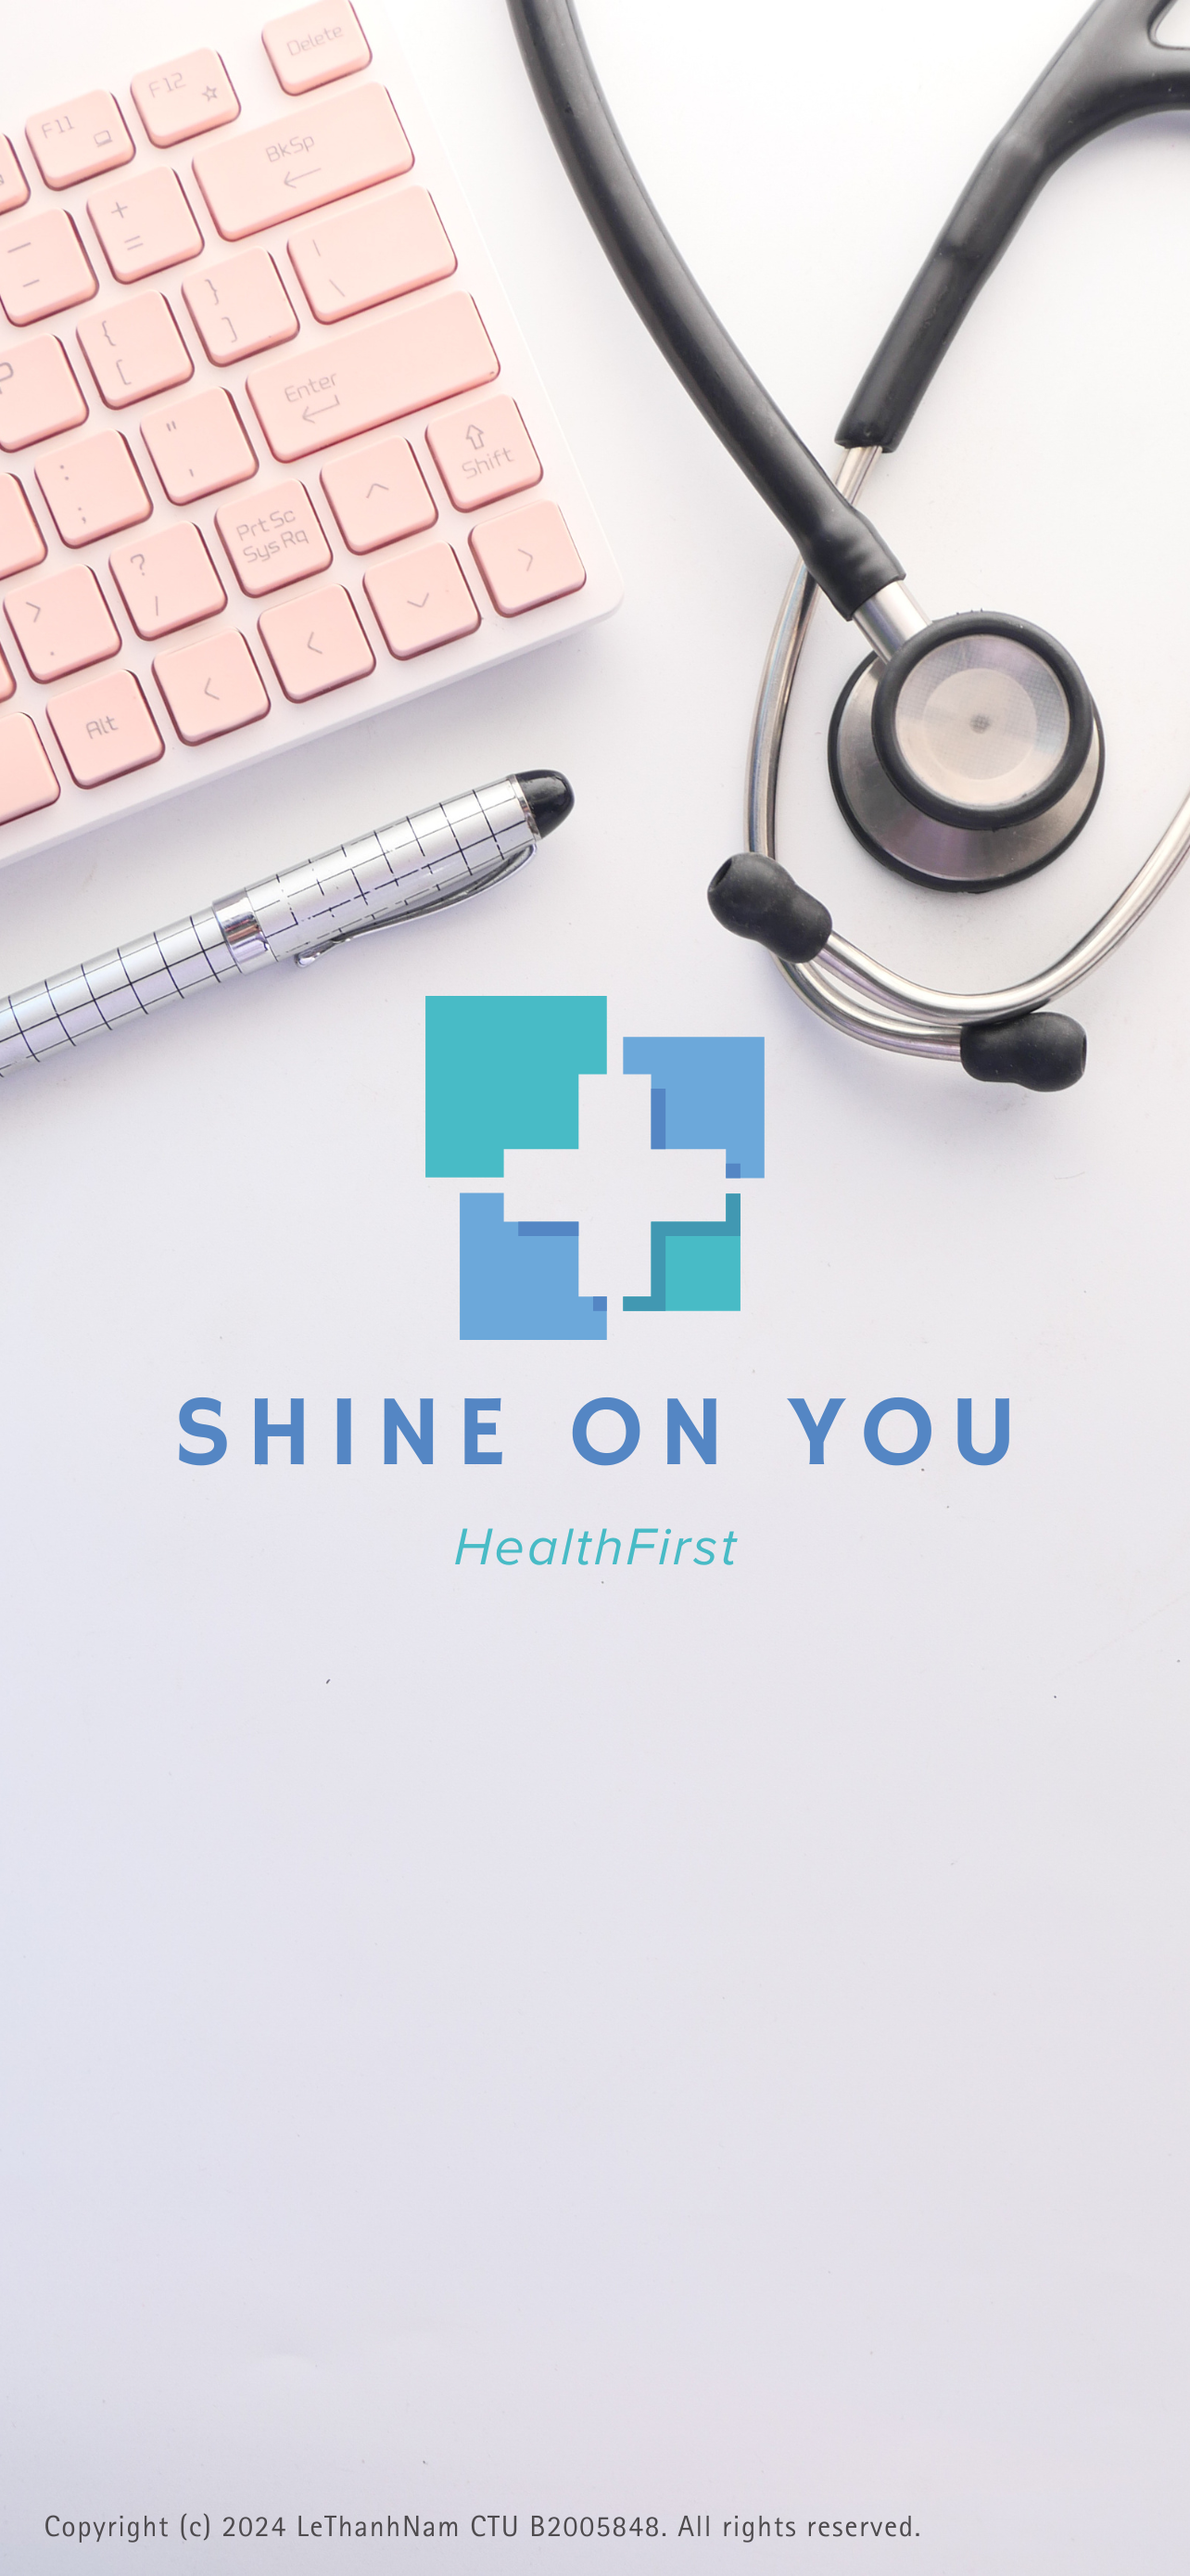
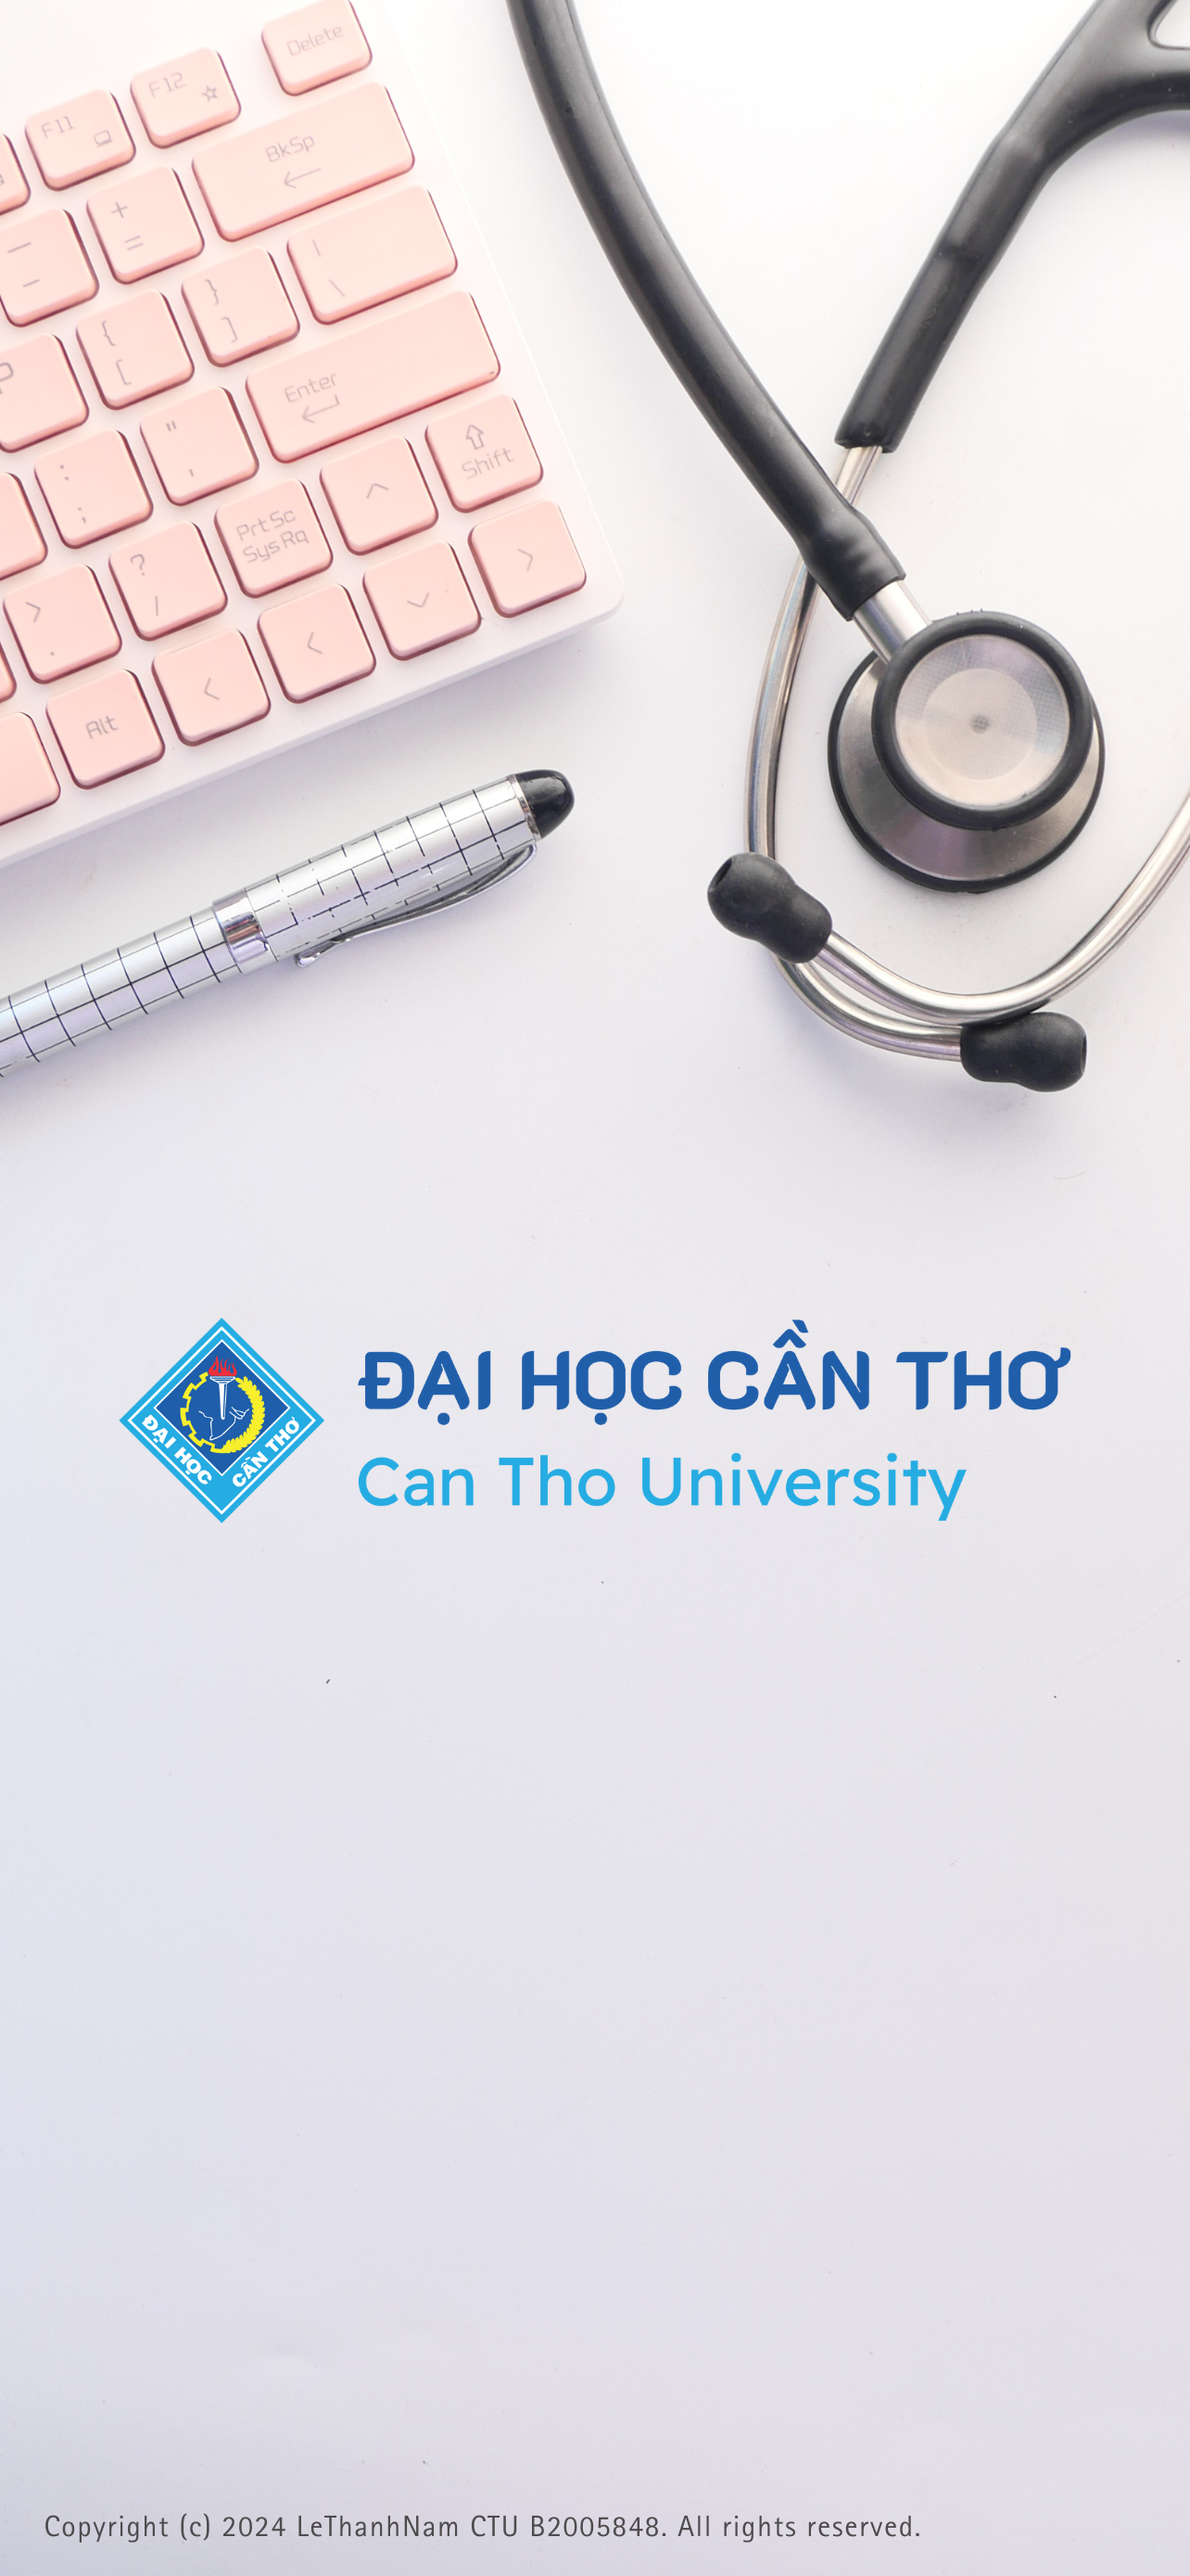
update

Changed region(s): [[0.0935, 0.3715, 0.9034, 0.6192]]

diff --git a/App.js b/App.js
@@ -64,7 +64,8 @@ export default function App() {
           name="LoginScreen"
           component={LoginScreen}
           options={{
-            title: "SHINE ON YOU",
+            headerShown: true,
+            title: "CTU",
             headerStyle: {
               backgroundColor: "#5486c4",
               fontFamily: "Open Sans-Bold",
@@ -82,7 +83,22 @@ export default function App() {
         <Stack.Screen
           name="SignUpScreen"
           component={SignUpScreen}
-          options={{ headerShown: true, title: "Đăng Ký" }}
+          options={{
+            headerShown: true,
+            title: "Đăng Ký",
+            headerStyle: {
+              backgroundColor: "#5486c4",
+              fontFamily: "Open Sans-Bold",
+            },
+            headerTintColor: "#fff",
+            headerRight: () => (
+              <FontAwesomeIcon
+                icon="fas fa-house-user"
+                size={32}
+                color="#fff"
+              />
+            ),
+          }}
         />
         <Stack.Screen
           name="CustomerScreen"

diff --git a/src/screens/LoginScreen/index.js b/src/screens/LoginScreen/index.js
@@ -13,7 +13,7 @@ import {
 import AsyncStorage from "@react-native-async-storage/async-storage";
 import { useNavigation } from "@react-navigation/native";
 import { isTokenValid } from "../../stores/auth-token";
-import API_URL from "../../apiConfig";
+import API_URL from "../../../apiConfig";
 
 import styles from "./style";
 
@@ -105,8 +105,8 @@ export default function LoginScreen() {
     >
       <View>
         <Image
-          source={require("../../assets/HealthFirst.png")}
-          style={{ width: 300, height: 300 }}
+          source={require("../../assets/CTU_logo.png")}
+          style={{ width: 250, height: 250 }}
         />
       </View>
       <TextInput
@@ -124,7 +124,7 @@ export default function LoginScreen() {
         onChangeText={setPassword}
       />
 
-      <TouchableOpacity onPress={handleLogin}>
+      <TouchableOpacity style={{ top: 20 }} onPress={handleLogin}>
         <View style={styles.bgrButton}>
           <Text style={styles.titleButton}>ĐĂNG NHẬP</Text>
         </View>

diff --git a/src/screens/LoginScreen/style.js b/src/screens/LoginScreen/style.js
@@ -12,6 +12,7 @@ const styles = StyleSheet.create({
     backgroundColor: "#fff",
   },
   textInput: {
+    top: 20,
     height: 40,
     width: 300,
     paddingHorizontal: 30,
